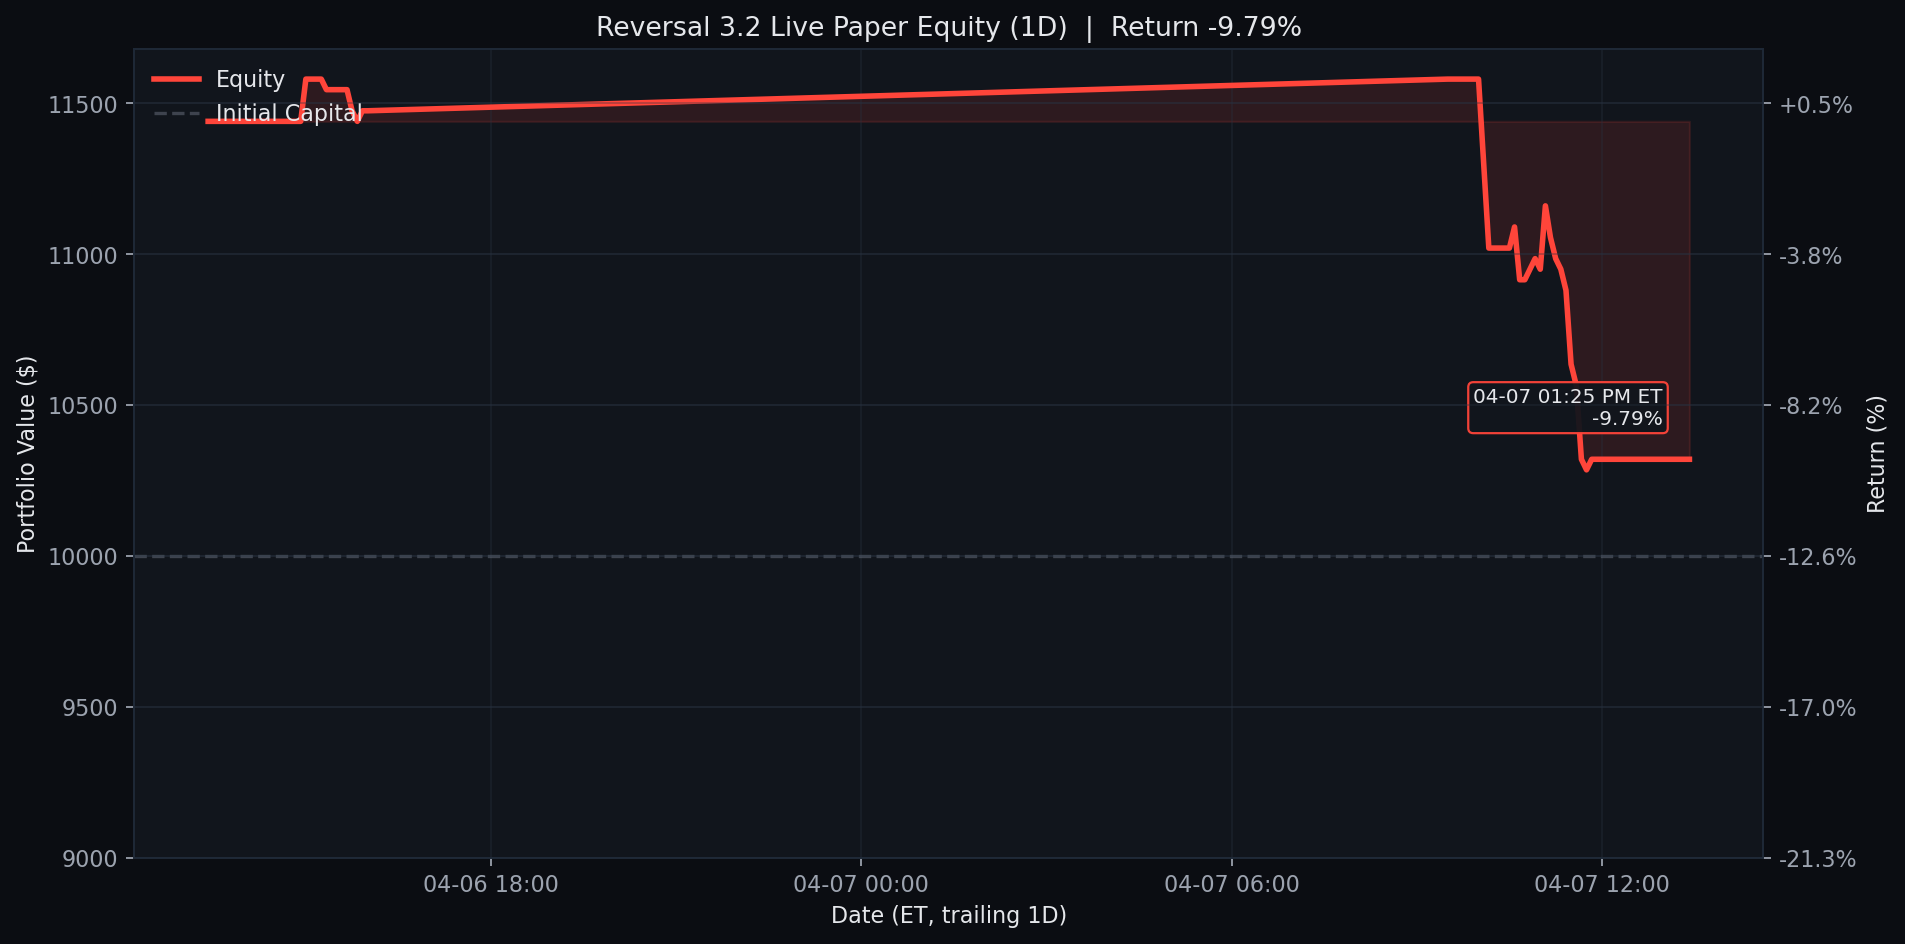
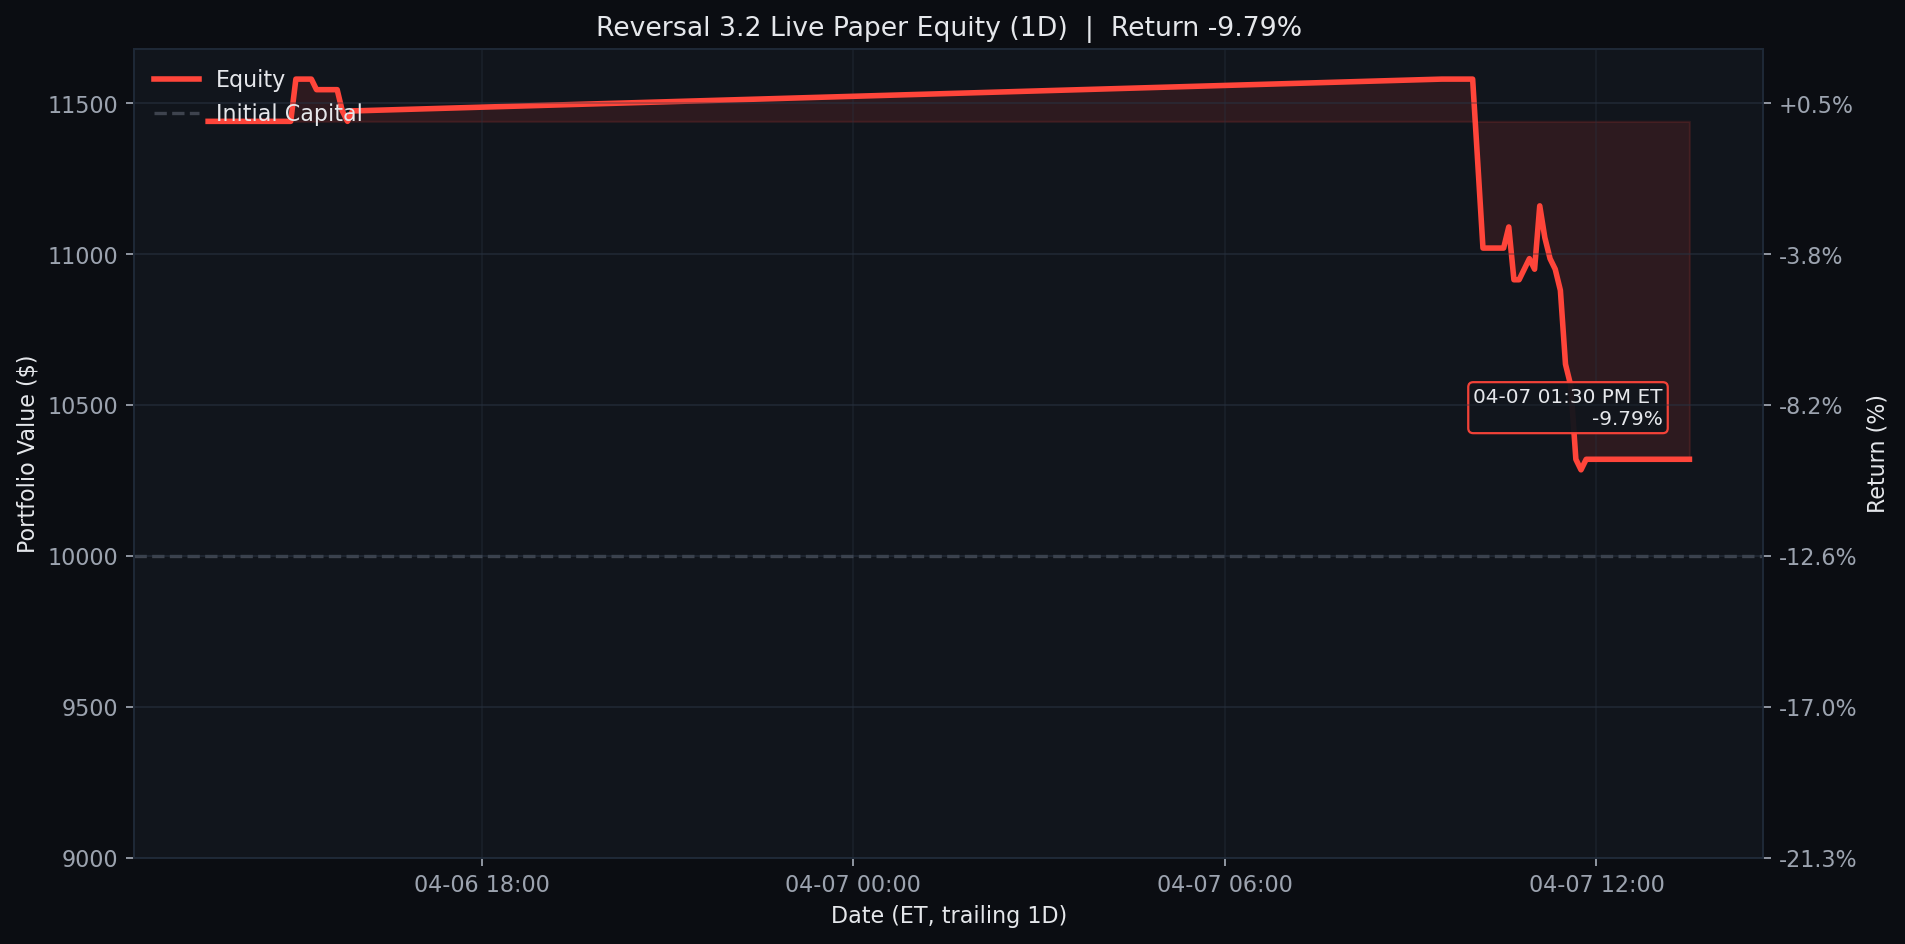
Update Reversal 3.2 live paper test 2026-04-07 13:30 ET

diff --git a/results/reversal_3_2_live/README.md b/results/reversal_3_2_live/README.md
@@ -1,6 +1,6 @@
 # Reversal 3.2 Live Paper Test
 
-Last updated (ET): `2026-04-07 13:25:05 EDT`
+Last updated (ET): `2026-04-07 13:30:05 EDT`
 Last processed slot: `manage_1330`
 
 ## Active Configuration
@@ -40,24 +40,25 @@ ticker    contract_symbol entry_trade_date_et exit_trade_date_et  entry_option_p
 
 ```text
 ticker  success_rate_%  matched_signals  current_drop_%  target_rebound_$  target_price  rolling_sigma_20d_%  call_candidate
-  REGN           97.06               34            0.75              4.01        761.32                25.24            True
-  UPRO           93.10               29            1.43              1.01        100.31                53.86            True
-  COST           92.86               14            1.04              7.38       1015.38                13.04            True
-  NVDA           92.59               27            1.19              1.48        177.00                33.70            True
-  CDNS           90.91               44            0.76              1.49        278.75                25.26            True
-  DXCM           89.13               46            0.51              0.22         63.11                29.92            True
-  SNPS           88.89               45            0.51              1.42        396.46                35.70            True
-  PCAR           88.89               36            0.76              0.63        118.05                21.97            True
-  TSLA           88.24               17            3.28              8.09        349.35                42.33            True
+  REGN           97.06               34            0.74              3.93        761.36                25.24            True
+  COST           95.24               21            0.91              6.49       1015.77                13.04            True
+  UPRO           92.86               28            1.46              1.03        100.30                53.86            True
+  NVDA           92.00               25            1.28              1.59        176.96                33.70            True
+  CDNS           90.91               44            0.70              1.36        278.81                25.26            True
+  PCAR           89.19               37            0.70              0.58        118.07                21.97            True
    KDP           88.24               17            0.80              0.14         25.64                20.32            True
-  KLAC           87.88               33            1.08             11.68       1535.06                45.70            True
-  ASML           87.10               31            0.93              8.48       1300.38                47.16            True
+  ASML           87.88               33            0.82              7.44       1300.82                47.16            True
+  KLAC           87.50               32            1.11             12.01       1534.91                45.70            True
+  MDLZ           86.67               15            0.63              0.26         58.27                25.49            True
+  MCHP           86.49               37            0.71              0.34         67.08                42.27            True
+  ABNB           86.36               22            1.78              1.58        126.13                36.80            True
 ```
 
 ## Recent Events
 
 ```text
                     timestamp_et        slot   event_type                          detail
+2026-04-07T13:30:05.887210-04:00 manage_1330 slot_skipped {"reason": "already_processed"}
 2026-04-07T13:25:05.882654-04:00 manage_1330 slot_skipped {"reason": "already_processed"}
 2026-04-07T13:10:04.926634-04:00 manage_1300 slot_skipped {"reason": "already_processed"}
 2026-04-07T13:05:02.889424-04:00 manage_1300 slot_skipped {"reason": "already_processed"}
@@ -67,7 +68,6 @@ ticker  success_rate_%  matched_signals  current_drop_%  target_rebound_$  targe
 2026-04-07T12:35:03.878614-04:00 manage_1230 slot_skipped {"reason": "already_processed"}
 2026-04-07T12:30:00.912059-04:00 manage_1230 slot_skipped {"reason": "already_processed"}
 2026-04-07T12:25:00.895869-04:00 manage_1230 slot_skipped {"reason": "already_processed"}
-2026-04-07T12:10:05.880109-04:00 manage_1200 slot_skipped {"reason": "already_processed"}
 ```
 
 ## Equity Curves
@@ -77,20 +77,20 @@ Each chart is generated from the same live equity series with no-lookahead marks
 <details>
 <summary><strong>1D</strong></summary>
 
-![Reversal 3.2 Live Equity 1D](../../assets/reversal_3_2_live_equity_1d.png?v=20260407132505)
+![Reversal 3.2 Live Equity 1D](../../assets/reversal_3_2_live_equity_1d.png?v=20260407133005)
 
 </details>
 
 <details open>
 <summary><strong>1W</strong></summary>
 
-![Reversal 3.2 Live Equity 1W](../../assets/reversal_3_2_live_equity.png?v=20260407132505)
+![Reversal 3.2 Live Equity 1W](../../assets/reversal_3_2_live_equity.png?v=20260407133005)
 
 </details>
 
 <details>
 <summary><strong>1M</strong></summary>
 
-![Reversal 3.2 Live Equity 1M](../../assets/reversal_3_2_live_equity_1m.png?v=20260407132505)
+![Reversal 3.2 Live Equity 1M](../../assets/reversal_3_2_live_equity_1m.png?v=20260407133005)
 
 </details>

diff --git a/README.md b/README.md
@@ -3,7 +3,7 @@
 <!-- reversal-3.2-live:start -->
 ## Reversal 3.2 Live Paper Test
 
-- Last updated (ET): `2026-04-07 13:25:05 EDT`
+- Last updated (ET): `2026-04-07 13:30:05 EDT`
 - Equity: `$10,320.00` | Realized: `$320.00` | Unrealized: `$0.00` | Open positions: `0`
 - Today closed trades: `1`
 - Current slot: `manage_1330`
@@ -17,21 +17,21 @@ _None_
 <details>
 <summary><strong>1D</strong></summary>
 
-![Reversal 3.2 Live Equity 1D](assets/reversal_3_2_live_equity_1d.png?v=20260407132505)
+![Reversal 3.2 Live Equity 1D](assets/reversal_3_2_live_equity_1d.png?v=20260407133005)
 
 </details>
 
 <details open>
 <summary><strong>1W</strong></summary>
 
-![Reversal 3.2 Live Equity 1W](assets/reversal_3_2_live_equity.png?v=20260407132505)
+![Reversal 3.2 Live Equity 1W](assets/reversal_3_2_live_equity.png?v=20260407133005)
 
 </details>
 
 <details>
 <summary><strong>1M</strong></summary>
 
-![Reversal 3.2 Live Equity 1M](assets/reversal_3_2_live_equity_1m.png?v=20260407132505)
+![Reversal 3.2 Live Equity 1M](assets/reversal_3_2_live_equity_1m.png?v=20260407133005)
 
 </details>
 
